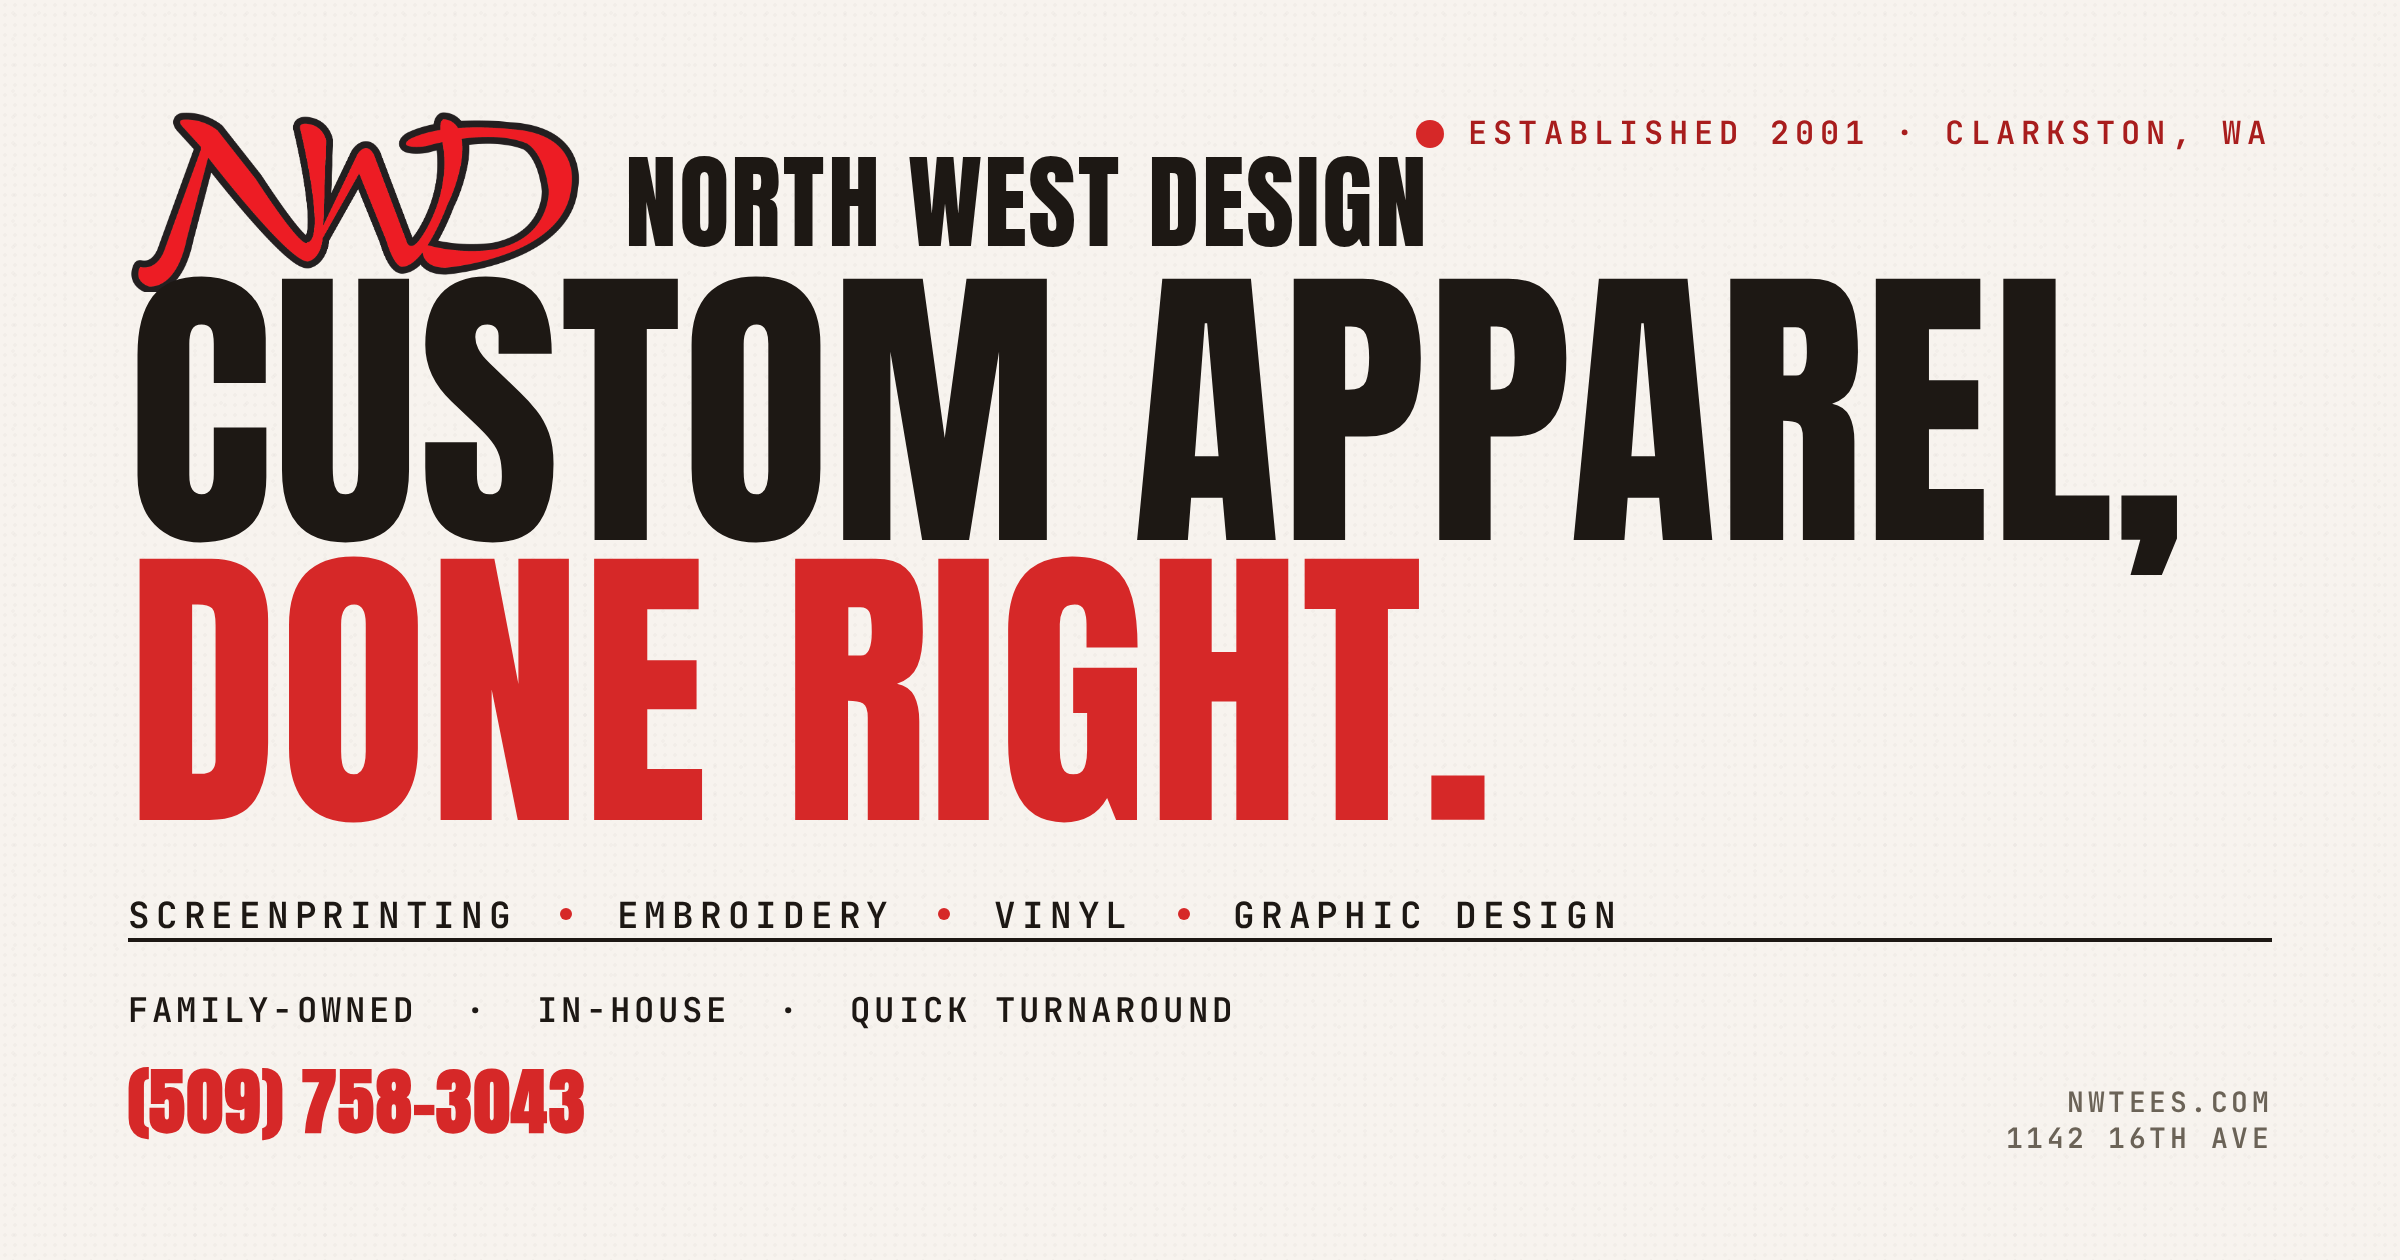
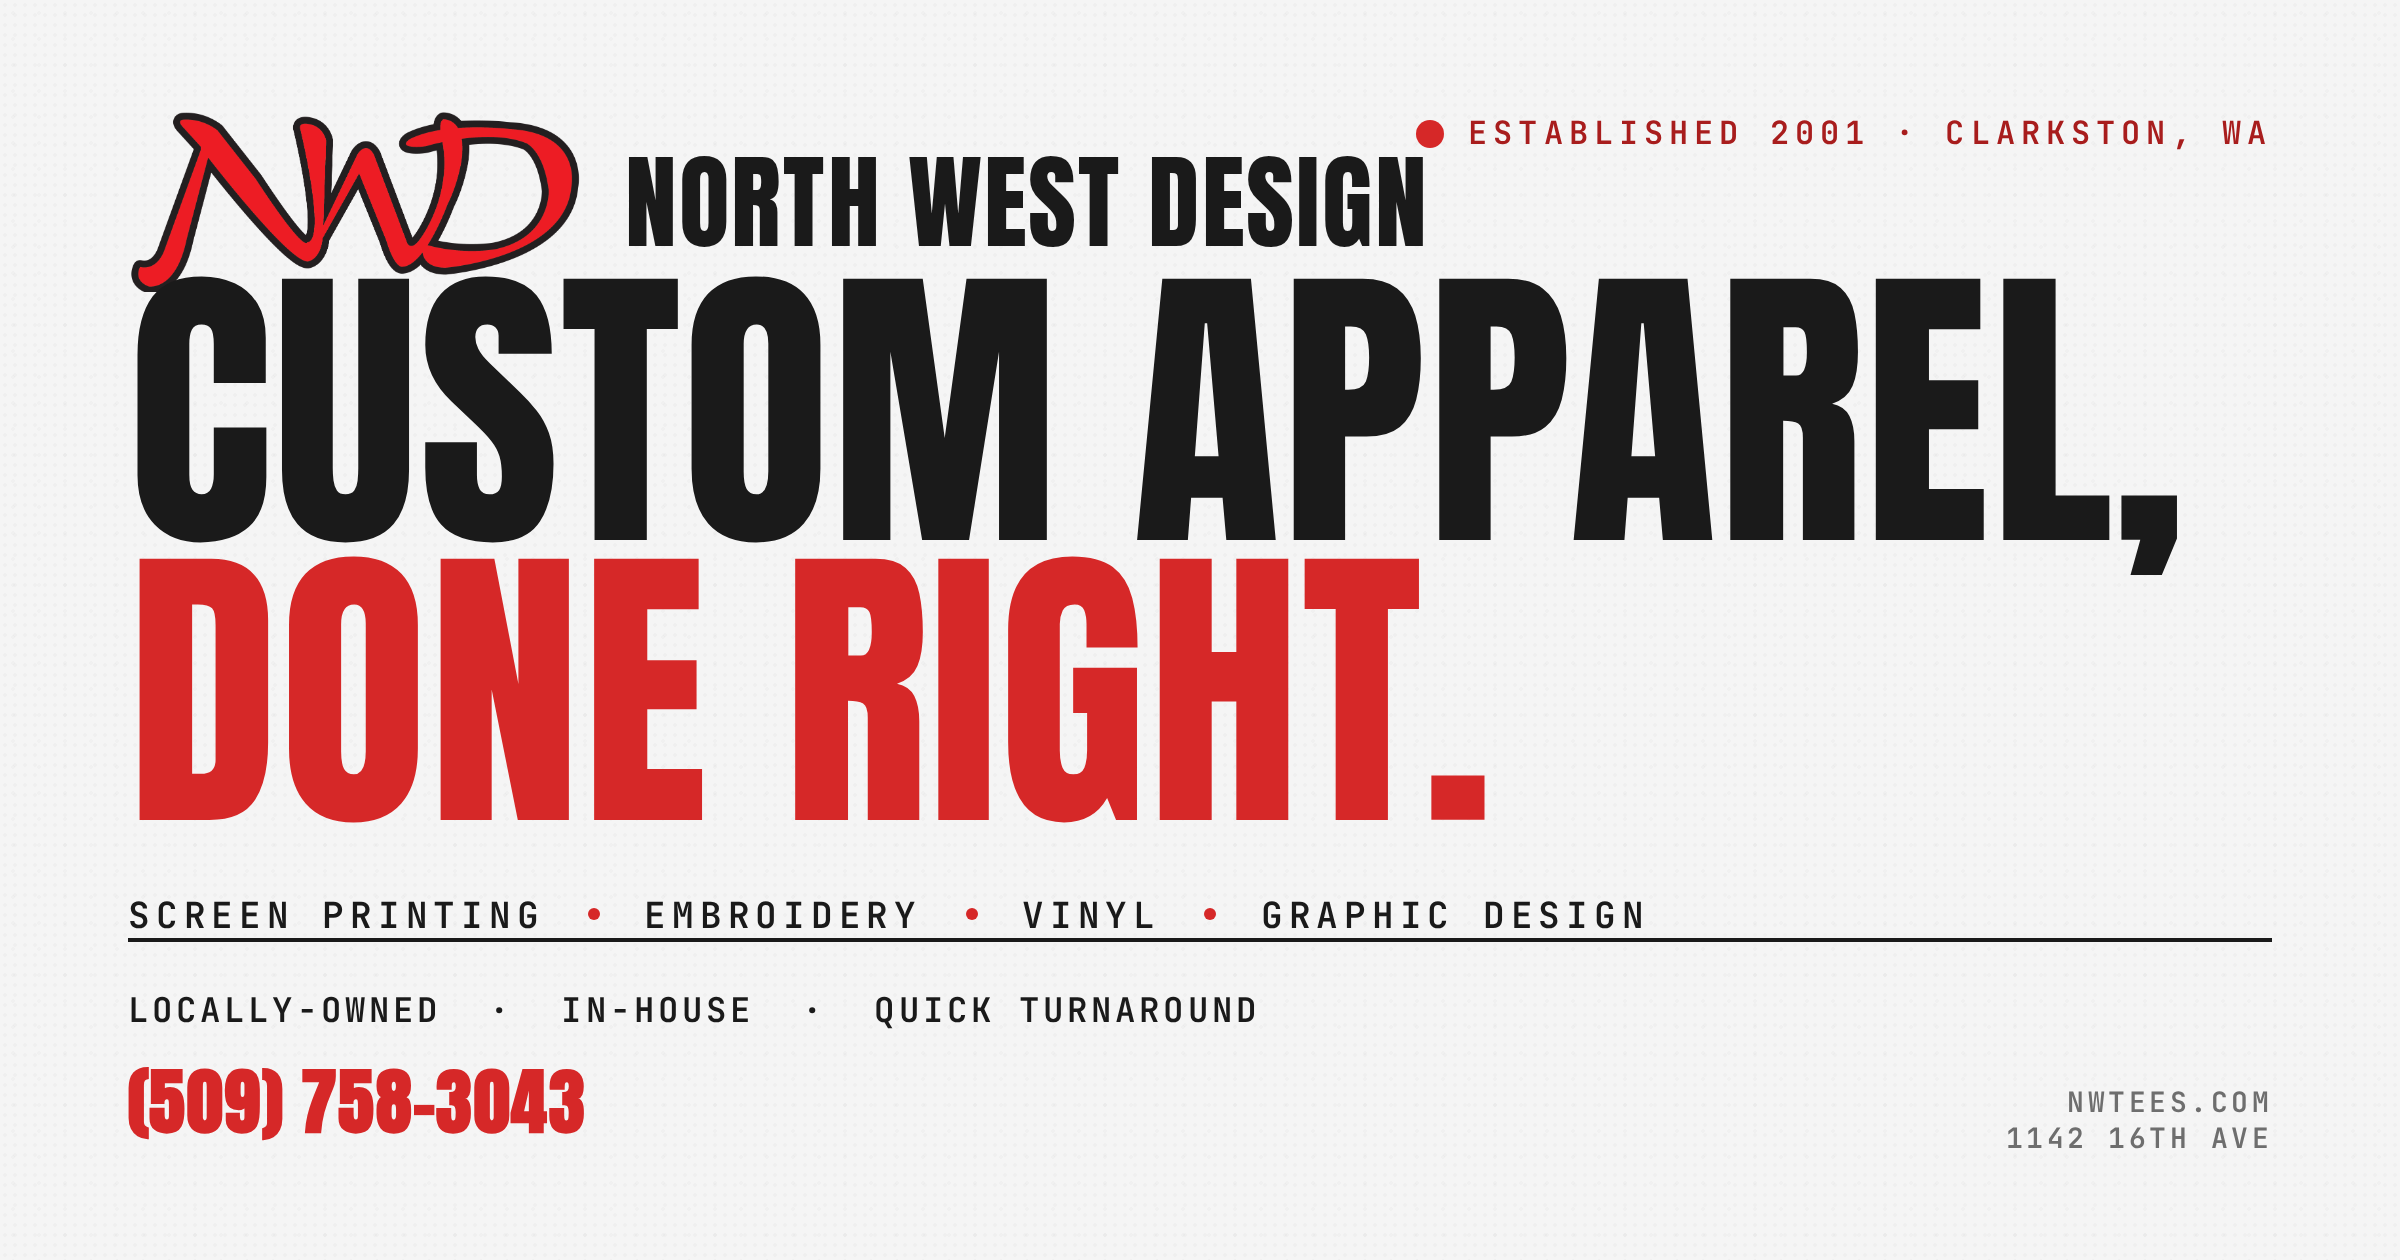
Color Updates

diff --git a/index.html b/index.html
@@ -40,20 +40,20 @@
 <style>
 :root {
   /* Kraft + ink poster palette */
-  --paper: #f7f3ee;        /* eggshell white */
-  --paper-deep: #ece5d5;   /* slightly deeper eggshell, for alternating sections */
-  --ink: #1d1814;          /* warm near-black */
-  --ink-soft: #3a3128;
-  --rule: #2a2218;
+  --paper: #f5f5f5;        /* light neutral grey, near-white */
+  --paper-deep: #e6e6e6;   /* slightly deeper grey for alternating sections */
+  --ink: #1a1a1a;          /* neutral near-black */
+  --ink-soft: #2e2e2e;     /* neutral dark grey body text */
+  --rule: #222222;
 
-  /* Brand: red as primary spot, black as secondary. White = the kraft paper. */
+  /* Brand: red as primary spot, black as secondary. White = the neutral paper. */
   --red: #d62828;          /* brand red */
   --red-deep: #a81d1d;     /* small text on light bg (clears WCAG AA) */
   --red-light: #ee5050;    /* small text on dark bg (clears WCAG AA) */
 
-  --label-dim: #c4baa6;    /* muted cream for small labels on dark sections */
+  --label-dim: #c0c0c0;    /* muted light grey for small labels on dark sections */
 
-  --muted: #7a6f5e;
+  --muted: #6e6e6e;
   --nav-h: 70px;
 }
 
@@ -69,8 +69,8 @@ body {
   background: var(--paper);
   /* subtle paper grain */
   background-image:
-    radial-gradient(rgba(28,24,20,0.025) 1px, transparent 1px),
-    radial-gradient(rgba(28,24,20,0.018) 1px, transparent 1px);
+    radial-gradient(rgba(26,26,26,0.025) 1px, transparent 1px),
+    radial-gradient(rgba(26,26,26,0.018) 1px, transparent 1px);
   background-size: 4px 4px, 11px 11px;
   background-position: 0 0, 2px 2px;
   -webkit-font-smoothing: antialiased;
@@ -480,7 +480,7 @@ p { color: var(--ink-soft); }
 }
 .calc h2 { color: var(--paper); }
 .calc h2 .accent { color: var(--red); }
-.calc .section-head p { color: #d8cdb6; max-width: 640px; }
+.calc .section-head p { color: #c8c8c8; max-width: 640px; }
 .calc .eyebrow { color: var(--red-light); }
 
 .calc-wrap {
@@ -492,8 +492,8 @@ p { color: var(--ink-soft); }
 }
 .calc-controls,
 .calc-results {
-  background: #2a231d;
-  border: 2px solid #443830;
+  background: #252525;
+  border: 2px solid #3a3a3a;
   padding: 32px;
 }
 .calc-field { margin-bottom: 22px; }
@@ -512,7 +512,7 @@ p { color: var(--ink-soft); }
   width: 100%;
   padding: 14px 16px;
   background: var(--ink);
-  border: 2px solid #443830;
+  border: 2px solid #3a3a3a;
   color: var(--paper);
   font-family: 'Space Grotesk', sans-serif;
   font-size: 17px;
@@ -535,7 +535,7 @@ p { color: var(--ink-soft); }
 }
 .calc-hint {
   font-size: 13px;
-  color: #b3a896;
+  color: #b0b0b0;
   font-style: italic;
   margin-top: -10px;
   margin-bottom: 22px;
@@ -547,7 +547,7 @@ p { color: var(--ink-soft); }
   align-items: baseline;
   margin-bottom: 24px;
   padding-bottom: 18px;
-  border-bottom: 1px dashed #443830;
+  border-bottom: 1px dashed #3a3a3a;
 }
 .calc-total-num {
   font-family: 'Anton', sans-serif;
@@ -580,7 +580,7 @@ p { color: var(--ink-soft); }
 }
 .size-bar-track {
   height: 22px;
-  background: #1a1411;
+  background: #141414;
   position: relative;
   overflow: hidden;
 }
@@ -621,7 +621,7 @@ p { color: var(--ink-soft); }
 .btn-ghost {
   background: transparent;
   color: var(--paper);
-  border-color: #443830;
+  border-color: #3a3a3a;
 }
 .btn-ghost:hover {
   border-color: var(--paper);
@@ -663,11 +663,11 @@ p { color: var(--ink-soft); }
 
 .empty-state {
   padding: 32px 8px;
-  color: #a89e88;
+  color: #9a9a9a;
   font-size: 15px;
   font-style: italic;
   text-align: center;
-  border: 1px dashed #443830;
+  border: 1px dashed #3a3a3a;
   background: rgba(0,0,0,0.18);
 }
 .empty-state strong { color: var(--paper); font-style: normal; font-family: 'Anton', sans-serif; font-weight: 400; letter-spacing: 0.05em; }
@@ -792,11 +792,11 @@ p { color: var(--ink-soft); }
   gap: 56px;
   margin-top: 40px;
 }
-.contact-info p { color: #d8cdb6; font-size: 18px; margin-bottom: 28px; max-width: 460px; }
+.contact-info p { color: #c8c8c8; font-size: 18px; margin-bottom: 28px; max-width: 460px; }
 .contact-block {
   margin-bottom: 26px;
   padding-bottom: 26px;
-  border-bottom: 1px dashed #443830;
+  border-bottom: 1px dashed #3a3a3a;
 }
 .contact-block:last-child { border-bottom: none; }
 .contact-lbl {
@@ -830,8 +830,8 @@ p { color: var(--ink-soft); }
 }
 
 .contact-card {
-  background: #2a231d;
-  border: 2px solid #443830;
+  background: #252525;
+  border: 2px solid #3a3a3a;
   padding: 36px;
 }
 .contact-card h3 {
@@ -839,7 +839,7 @@ p { color: var(--ink-soft); }
   font-size: 32px;
   margin-bottom: 14px;
 }
-.contact-card p { color: #d8cdb6; font-size: 16px; margin-bottom: 24px; }
+.contact-card p { color: #c8c8c8; font-size: 16px; margin-bottom: 24px; }
 .contact-card .btn {
   width: 100%;
   margin-bottom: 12px;
@@ -847,8 +847,8 @@ p { color: var(--ink-soft); }
 
 /* ===== FOOTER ===== */
 .footer {
-  background: #0e0a07;
-  color: #a89e88;
+  background: #0a0a0a;
+  color: #9a9a9a;
   padding: 36px 0;
   font-size: 13px;
   font-family: 'JetBrains Mono', monospace;
@@ -945,7 +945,7 @@ p { color: var(--ink-soft); }
 .lightbox {
   position: fixed;
   inset: 0;
-  background: rgba(15, 12, 9, 0.95);
+  background: rgba(10, 10, 10, 0.95);
   z-index: 200;
   display: flex;
   align-items: center;

diff --git a/.og-build.html b/.og-build.html
@@ -1,0 +1,55 @@
+<!DOCTYPE html>
+<html><head>
+<meta charset="UTF-8">
+<link rel="preconnect" href="https://fonts.googleapis.com">
+<link rel="preconnect" href="https://fonts.gstatic.com" crossorigin>
+<link href="https://fonts.googleapis.com/css2?family=Anton&family=Space+Grotesk:wght@500;600&family=JetBrains+Mono:wght@500;600&display=swap" rel="stylesheet">
+<style>
+* { box-sizing: border-box; margin: 0; padding: 0; }
+html, body { width: 1200px; height: 630px; overflow: hidden; }
+body {
+  background: #f5f5f5;
+  background-image:
+    radial-gradient(rgba(26,26,26,0.025) 1px, transparent 1px),
+    radial-gradient(rgba(26,26,26,0.018) 1px, transparent 1px);
+  background-size: 5px 5px, 13px 13px;
+  font-family: 'Space Grotesk', sans-serif;
+  color: #1a1a1a;
+}
+.frame { width:1200px; height:630px; padding:56px 64px; display:flex; flex-direction:column; justify-content:space-between; position:relative; }
+.top-row { display:flex; align-items:center; gap:22px; }
+.brand-mark { height:90px; width:auto; }
+.brand-text { font-family:'Anton',sans-serif; font-size:52px; letter-spacing:0.02em; text-transform:uppercase; line-height:1; color:#1a1a1a; }
+.eyebrow-row { position:absolute; top:56px; right:64px; display:flex; align-items:center; gap:12px; font-family:'JetBrains Mono',monospace; font-size:16px; font-weight:600; letter-spacing:0.16em; text-transform:uppercase; color:#a81d1d; }
+.eyebrow-row::before { content:""; width:14px; height:14px; background:#d62828; border-radius:50%; }
+.headline-block { margin-top:-10px; }
+.headline { font-family:'Anton',sans-serif; font-size:152px; letter-spacing:0.005em; text-transform:uppercase; line-height:0.92; color:#1a1a1a; }
+.headline .red { color:#d62828; }
+.services-row { margin-top:30px; font-family:'JetBrains Mono',monospace; font-size:18px; font-weight:600; letter-spacing:0.16em; text-transform:uppercase; color:#1a1a1a; display:flex; flex-wrap:wrap; gap:22px; }
+.services-row span { display:inline-flex; align-items:center; gap:14px; }
+.services-row span:not(:last-child)::after { content:""; width:6px; height:6px; background:#d62828; border-radius:50%; margin-left:8px; }
+.bottom-row { display:flex; justify-content:space-between; align-items:flex-end; border-top:2px solid #1a1a1a; padding-top:22px; }
+.bottom-left { font-family:'JetBrains Mono',monospace; font-size:17px; font-weight:600; letter-spacing:0.12em; text-transform:uppercase; color:#1a1a1a; line-height:1.5; }
+.bottom-left .phone { font-family:'Anton',sans-serif; font-size:36px; letter-spacing:0.02em; color:#d62828; display:block; margin-top:6px; }
+.bottom-right { font-family:'JetBrains Mono',monospace; font-size:14px; font-weight:600; letter-spacing:0.16em; text-transform:uppercase; color:#6e6e6e; text-align:right; }
+</style></head><body>
+<div class="frame">
+  <div class="top-row">
+    <img src="images/nwd-mark.png" class="brand-mark" alt="NWD"/>
+    <div class="brand-text">North West Design</div>
+  </div>
+  <div class="eyebrow-row">Established 2001 &middot; Clarkston, WA</div>
+  <div class="headline-block">
+    <div class="headline">Custom apparel,<br><span class="red">done&nbsp;right.</span></div>
+    <div class="services-row">
+      <span>Screen Printing</span><span>Embroidery</span><span>Vinyl</span><span>Graphic&nbsp;Design</span>
+    </div>
+  </div>
+  <div class="bottom-row">
+    <div class="bottom-left">Locally-owned &nbsp;&middot;&nbsp; In-house &nbsp;&middot;&nbsp; Quick turnaround
+      <span class="phone">(509) 758-3043</span>
+    </div>
+    <div class="bottom-right">nwtees.com<br>1142 16th Ave</div>
+  </div>
+</div>
+</body></html>